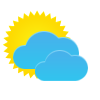
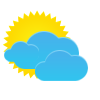
added images and somes changes in the css, controller and index files

Changed region(s): [[0.03, 0.39, 0.39, 0.63]]

diff --git a/app/styles/main.css b/app/styles/main.css
@@ -1,23 +1,45 @@
 .div-transition{
-	width: 100px;
-  height: 100px;
+  width: 100px;
+  height: 70px;
   background: #f2f2f2;
-  -webkit-transition: height 2s; /* For Safari 3.1 to 6.0 */
-  transition: height 2s;
-}
-
-.div-transition:hover {
-	height: 200px;
 }
 
 .container {
   font-family: sans-serif;
-	height: 450px;
+  height: 450px;
   padding-top: 0;
-	margin-left: 15%;
-	margin-right: 15%;
+  margin-left: 15%;
+  margin-right: 15%;
   border: 10px solid #005ce6;
   background: #4da6ff;
+}
+
+.temperature-high{
+  color: red;
+  font-size: 10;
+  float: right;
+  margin-top: -20px;
+  margin-right: -10px;
+  position: relative;
+}
+
+.temperature-low{
+  color: blue;
+  font-size: 10;
+  float: left;
+  margin-top: -20px;
+  margin-left: -10px;
+  position: relative;
+}
+
+input[type=text]{
+  border-radius: 5px;
+  padding: 6px 10px;
+  margin: 3px 0;
+}
+
+input[type=text]:focus {
+    border: 2px solid #555;
 }
 
 form {
@@ -26,10 +48,16 @@ form {
 
 .main-box {
   border: 10px;
+  padding: 20px 100px 20px 100px;
 }
 
 h1 {
   color: white;
+  text-align: center;
+}
+
+.dayOfWeek {
+  font-size: 15;
   text-align: center;
 }
 
@@ -45,14 +73,26 @@ h1 {
 .error {
   color: red;
   font-style: bold;
+  font-family: serif;
+  font-stretch: condensed;
+}
+
+.img{
+  height: 70px;
+  width: 70px;
+  position: relative;
 }
 
 [class*="col-"] {
     float: left;
     padding: 15px;
+    border: 1px solid white;
+    border-radius: 10px;
 }
-.col-1 {width: 8.33%;}
+
+.col-1 {width: 70px}
 .col-2 {width: 16.66%;}
 .col-3 {width: 25%;}
 .col-4 {width: 33.33%;}
 .col-5 {width: 41.66%;}
+.col-6 {width: 20%}

diff --git a/app/js/weather-controller.js b/app/js/weather-controller.js
@@ -2,14 +2,16 @@ blipWeatherApp.controller('weatherController', ['$scope','weatherService', funct
   function loadImage(description) {
     var images = {
       'Sunny': 'assets/images/sunny.png',
+      'Partly Sunny': 'assets/images/partlySunny.png',
       'Mostly Sunny': 'assets/images/mostlySunny.png',
-      'Partly Cloudy': 'assets/images/5.png',
-      'Scattered Showers': 'assets/images/mostlySunny.png',
-      'Thunderstorms': 'assets/images/mostlySunny.png',
-      'Cloudy': 'assets/images/mostlySunny.png',
-      'Scattered Thunderstorms': 'assets/images/mostlySunny.png',
-      'Rain': 'assets/images/mostlySunny.png',
-      'Breezy': 'assets/images/mostlySunny.png'
+      'Cloudy': 'assets/images/cloudy.png',
+      'Partly Cloudy': 'assets/images/partlyCloudy.png',
+      'Mostly Cloudy': 'assets/images/mostlyCloudy.png',
+      'Scattered Showers': 'assets/images/scatteredShowers.png',
+      'Thunderstorms': 'assets/images/thunderstorms.png',
+      'Scattered Thunderstorms': 'assets/images/scatteredThunderstorms.png',
+      'Rain': 'assets/images/rain.png',
+      'Breezy': 'assets/images/breezy.png'
     };
 
     return images[description];
@@ -21,7 +23,7 @@ blipWeatherApp.controller('weatherController', ['$scope','weatherService', funct
 
   function buildForecastElement(forecast) {
     return {
-      day: dayOfTheWeek((new Date(forecast.data)).getDay()),
+      day: dayOfTheWeek((new Date(forecast.date)).getDay()),
       temperature: {
         high: forecast.high,
         low: forecast.low

diff --git a/app/index.html b/app/index.html
@@ -15,17 +15,20 @@
           </div>
           <button class="btn" id="submitCity" ng-click="submit()">Get Weather</button>
           <div class="error" ng-if="errorLabel">
-            {{ errorLabel }}
+            <b>{{ errorLabel }}</b>
           </div>
         </form>
-      </div>
 
-      <div class="row" id="forecastResults" ng-if="forecast">
-        <div class="div-transition col-1" ng-repeat="day in forecast">
-
-          <!-- <img ng-src="{{day.image}}"/> -->
-          {{ day.temperature.high | fahrenheitToCelcius }}
-          {{ day.temperature.low | fahrenheitToCelcius }}
+        <div class="div-transition col-1" id="forecastResults" ng-if="forecast" ng-repeat="day in forecast">
+          {{day.dayOfTheWeek}}
+          <div class="dayOfWeek"><b>{{day.day}}</b></div>
+          <img class="img" ng-src="{{day.image}}"/>
+          <span class="temperature-high">
+            <b>{{ day.temperature.high | fahrenheitToCelcius }}</b>
+          </span>
+          <span class="temperature-low">
+            <b>{{ day.temperature.low | fahrenheitToCelcius }}</b>
+          </span>
         </div>
       </div>
 
